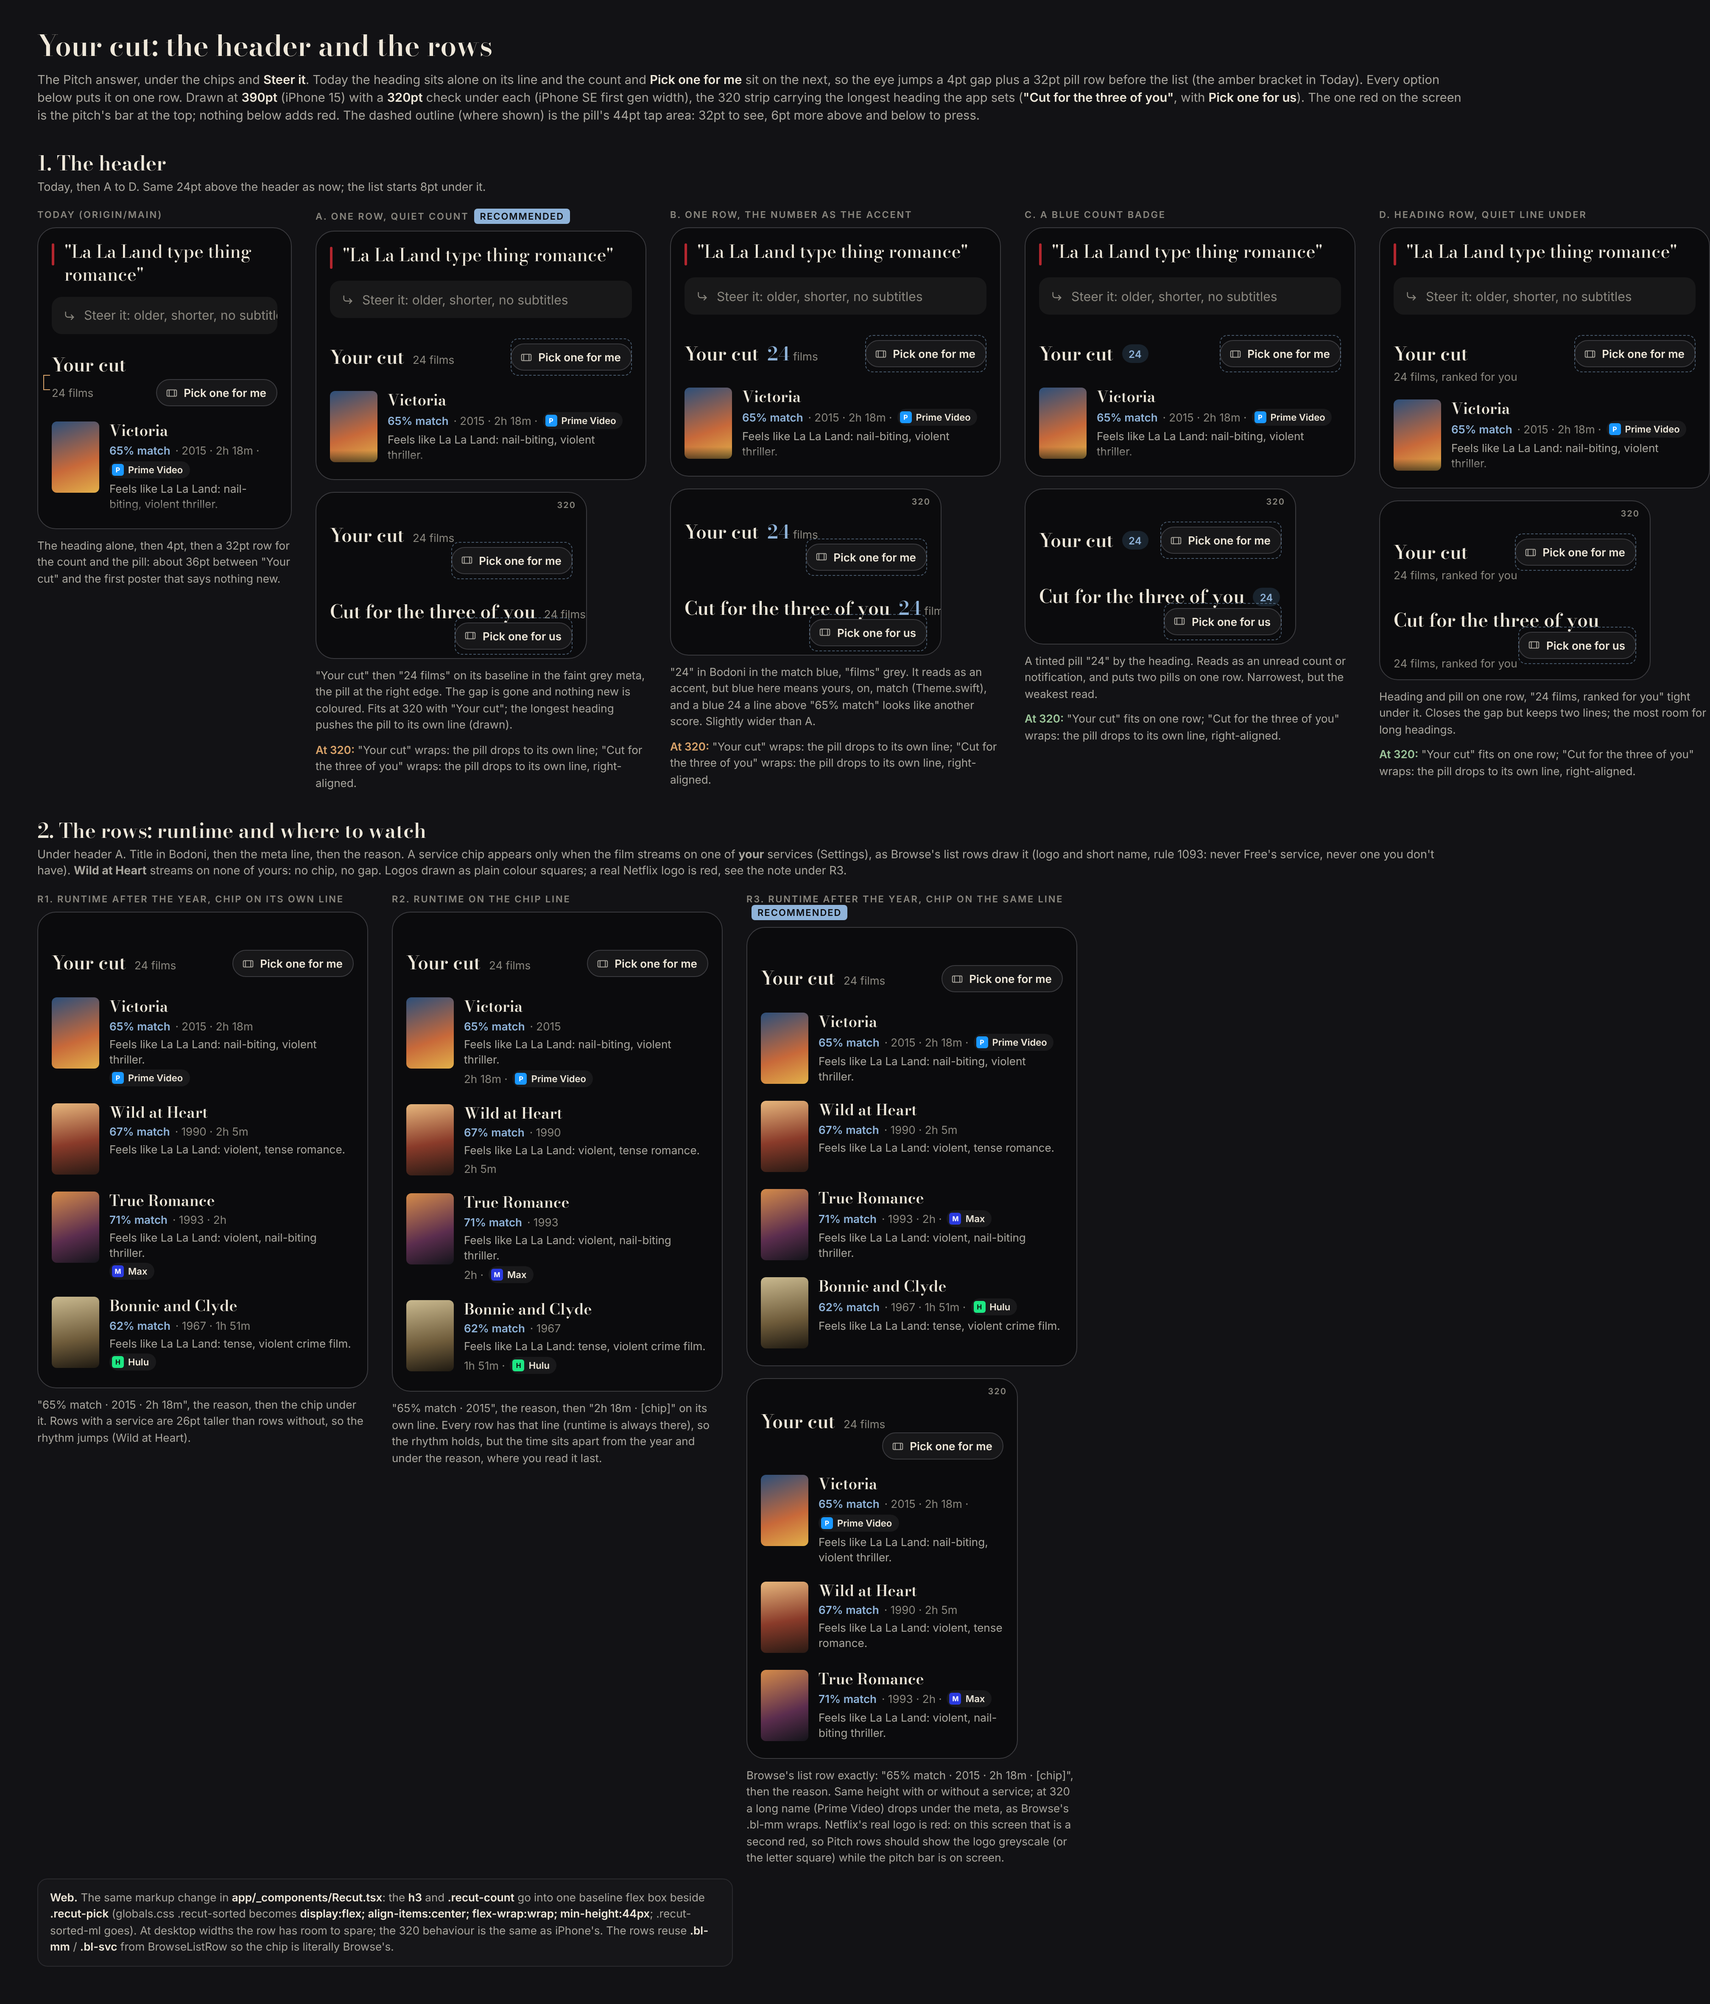
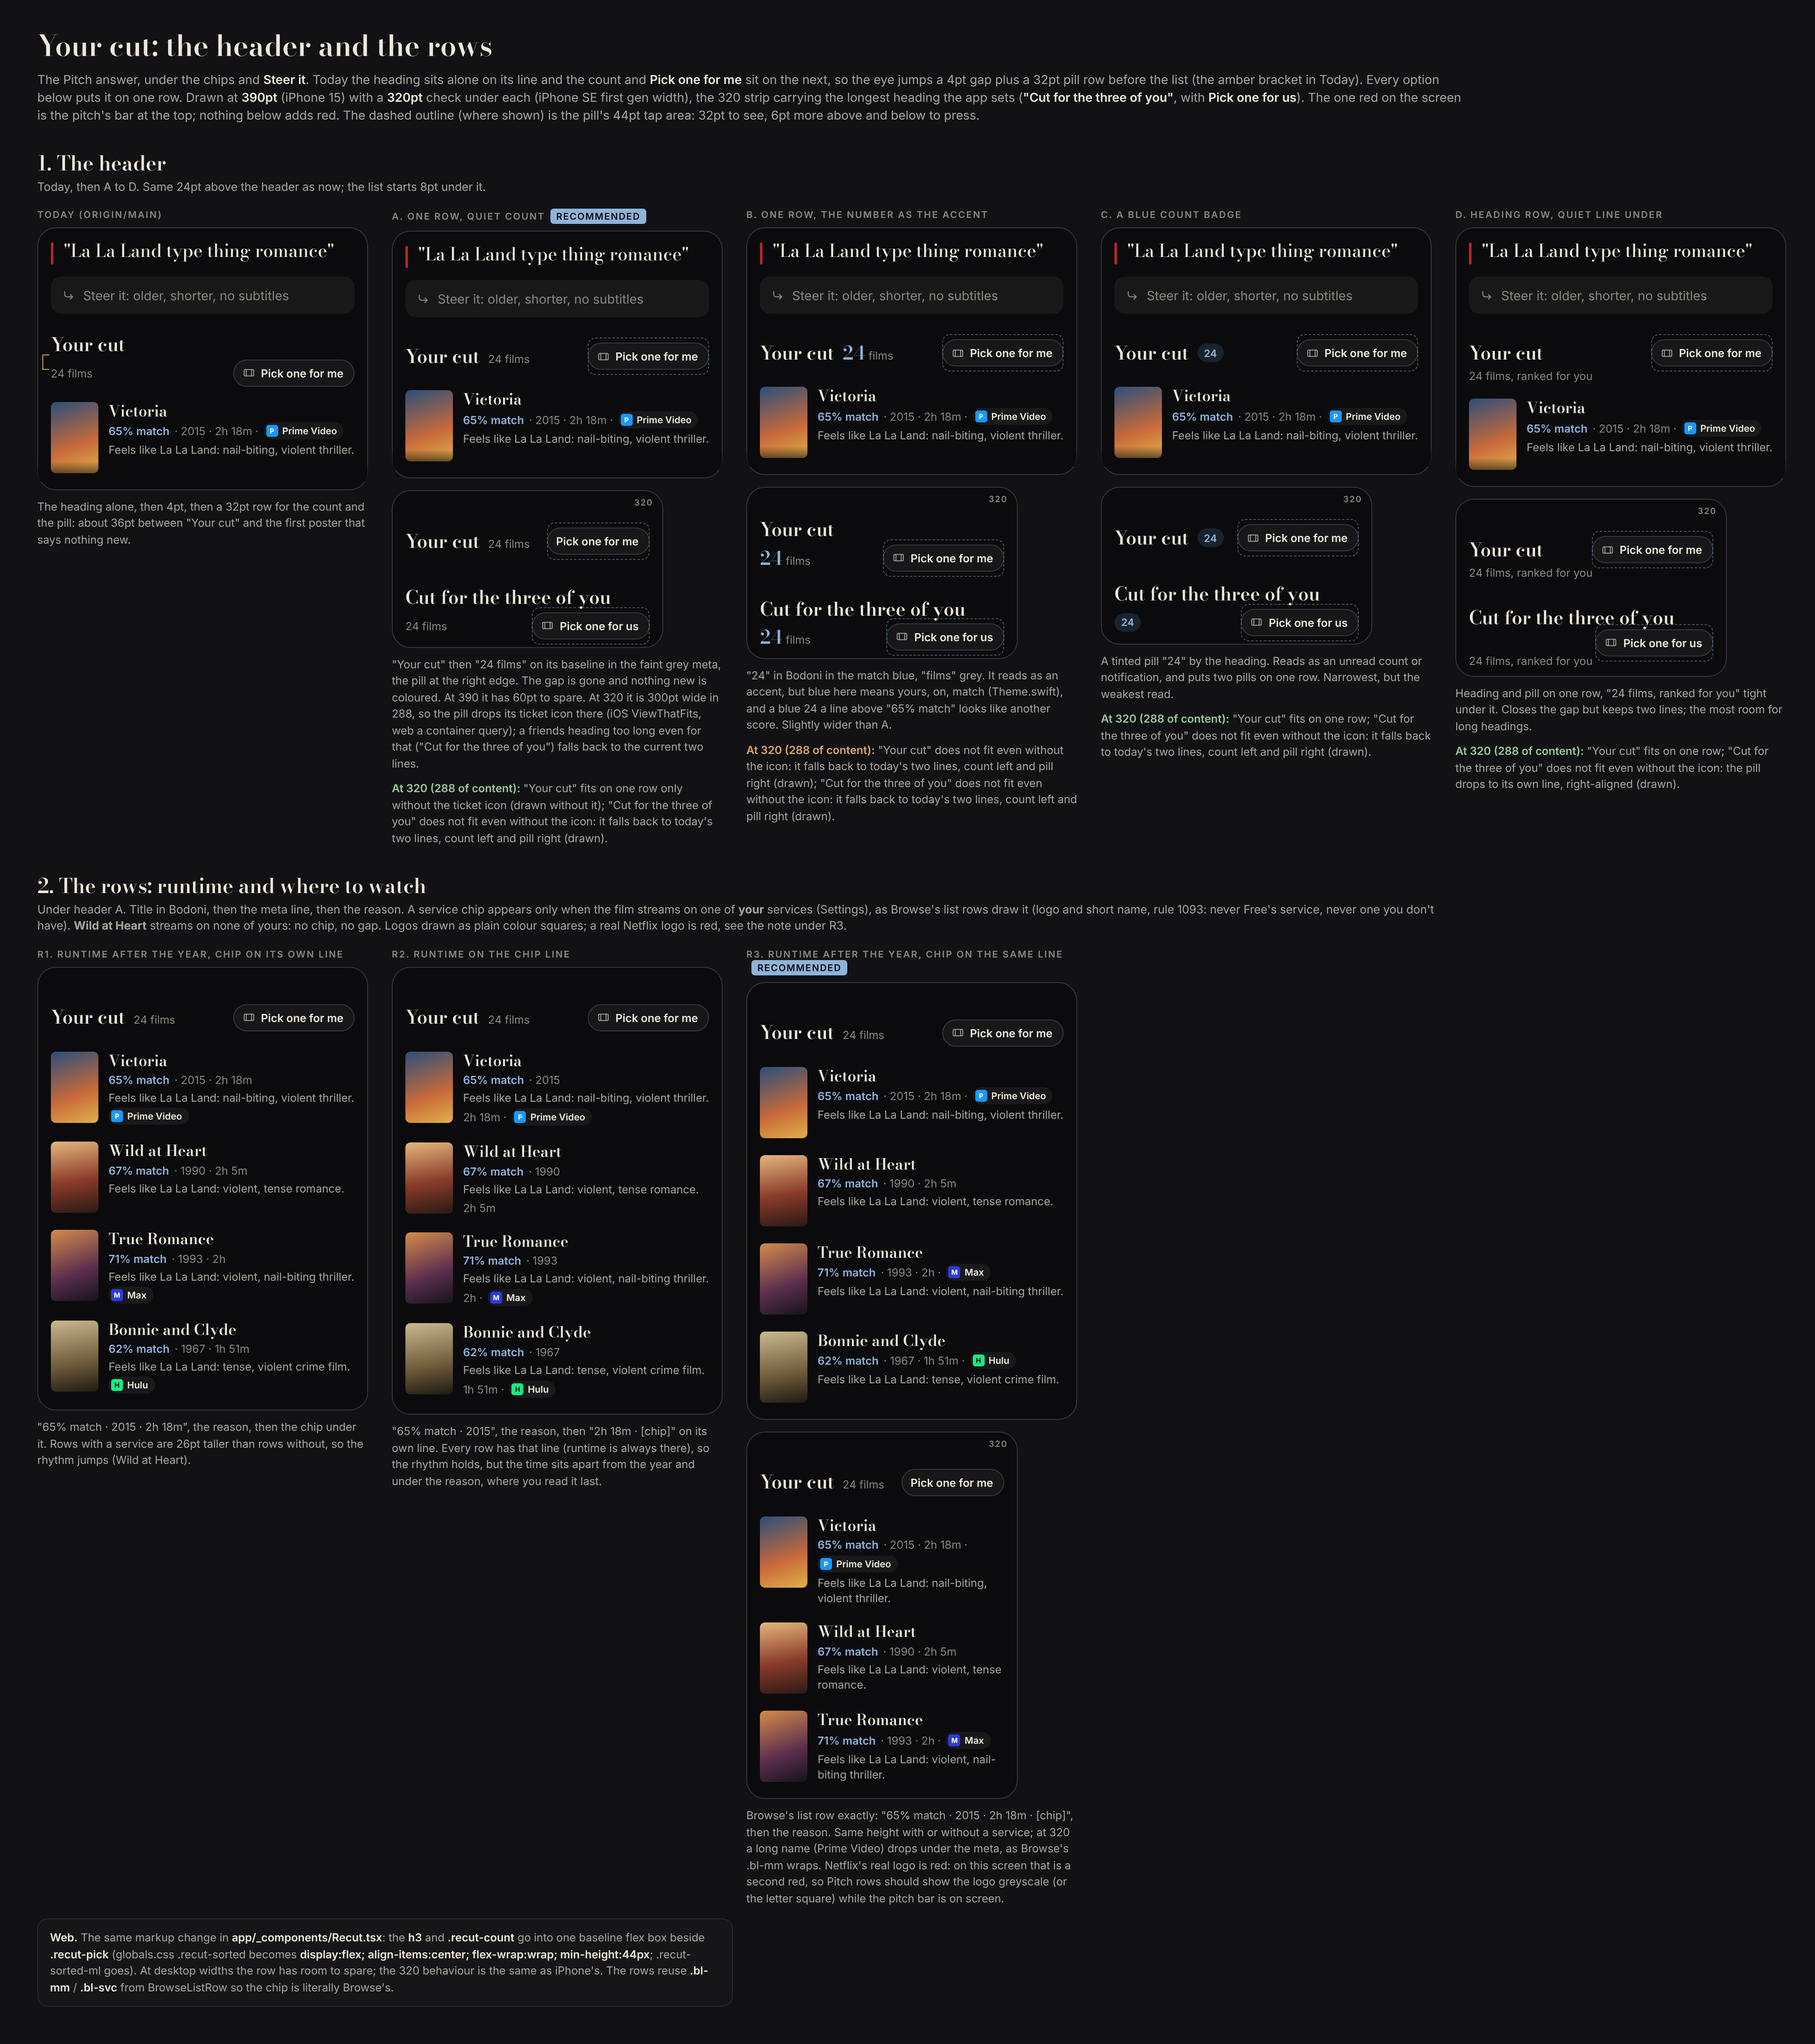
Mock: Pitch Your cut header on one row, rows with runtime and your service
Claude-Session: https://claude.ai/code/session_013WRDCFXH8nihP92apJAVW7

Changed region(s): [[0.0, 0.0, 1.0, 0.9331], [0.0312, 0.9331, 0.4062, 0.9953]]

diff --git a/mockups/journeys/your-cut-header-v1.html b/mockups/journeys/your-cut-header-v1.html
@@ -10,7 +10,7 @@
    BrowseListRow.tsx rowAction, rule 1093). Mock only, no app code. Films, matches and services illustrative. */
 :root{--bg:#0B0B0D;--p2:#18181B;--line:#2A2A2E;--line2:#3A3A3E;--ink:#EFE8DA;--muted:#A9A69E;--faint:#8A877F;--acc2:#8FB3D9;--red:#B3262E}
 *{box-sizing:border-box;margin:0;padding:0}
-body{width:1800px;background:#121215;color:var(--ink);font:400 15px/1.45 Inter,Arial,sans-serif;padding:36px 44px 44px}
+body{width:2140px;background:#121215;color:var(--ink);font:400 15px/1.45 Inter,Arial,sans-serif;padding:36px 44px 44px}
 h1{font:600 34px/1.1 'Bodoni Moda',Georgia,serif}
 .lede{color:var(--muted);margin-top:10px;font-size:14.5px;max-width:1680px}
 .lede b,.n b{color:var(--ink);font-weight:600}
@@ -23,7 +23,7 @@ h1{font:600 34px/1.1 'Bodoni Moda',Georgia,serif}
 .n{font:13px/1.5 Inter;color:var(--muted);margin-top:10px}
 .n.ok b{color:#9CC59A}.n.bad b{color:#D9A36A}
 /* a strip of the phone screen, 390 or 320 wide, 16 gutter */
-.ph{width:390px;background:var(--bg);border:1.5px solid var(--line2);border-radius:22px;overflow:hidden;padding:14px 16px 10px;position:relative}
+.ph{width:390px;background:var(--bg);outline:1.5px solid var(--line2);outline-offset:-1.5px;border-radius:22px;overflow:hidden;padding:14px 16px 10px;position:relative}
 .ph.w320{width:320px;margin-top:14px}
 .w320tag{position:absolute;right:12px;top:8px;font:600 10px Inter;letter-spacing:1px;color:var(--faint)}
 /* context above: the pitch's red bar (the one red), the chips' tail and the Steer field */
@@ -105,7 +105,7 @@ const ROW={
 };
 const HN={
  today:['Today (origin/main)','','The heading alone, then 4pt, then a 32pt row for the count and the pill: about 36pt between "Your cut" and the first poster that says nothing new.'],
- A:['A. One row, quiet count','rec','"Your cut" then "24 films" on its baseline in the faint grey meta, the pill at the right edge. The gap is gone and nothing new is coloured. Fits at 320 with "Your cut"; the longest heading pushes the pill to its own line (drawn).'],
+ A:['A. One row, quiet count','rec','"Your cut" then "24 films" on its baseline in the faint grey meta, the pill at the right edge. The gap is gone and nothing new is coloured. At 390 it has 60pt to spare. At 320 it is 300pt wide in 288, so the pill drops its ticket icon there (iOS ViewThatFits, web a container query); a friends heading too long even for that ("Cut for the three of you") falls back to the current two lines.'],
  B:['B. One row, the number as the accent','','"24" in Bodoni in the match blue, "films" grey. It reads as an accent, but blue here means yours, on, match (Theme.swift), and a blue 24 a line above "65% match" looks like another score. Slightly wider than A.'],
  C:['C. A blue count badge','','A tinted pill "24" by the heading. Reads as an unread count or notification, and puts two pills on one row. Narrowest, but the weakest read.'],
  D:['D. Heading row, quiet line under','','Heading and pill on one row, "24 films, ranked for you" tight under it. Closes the gap but keeps two lines; the most room for long headings.'],
@@ -113,8 +113,7 @@ const HN={
 const hd=document.getElementById('hdrs');
 for(const k of ['today','A','B','C','D']){
   const [lab,rec,note]=HN[k];
-  const c=document.createElement('div');c.className='col';c.style.width=k==='today'?'300px':'';
-  const w=k==='today'?'width:300px':'';
+  const c=document.createElement('div');c.className='col';const w='';
   c.innerHTML=`<div class="lab">${lab}${rec?'<span class="rec">RECOMMENDED</span>':''}</div>
    <div class="ph ${k==='today'?'':'show44'}" style="${w}" data-k="${k}">${QUOTE}${STEER}${H[k]('Your cut',false)}<div class="list">${ROW.R3(FILMS[0],0)}</div><div class="fade"></div></div>
    ${k==='today'?'':`<div class="ph w320 show44" data-k="${k}"><span class="w320tag">320</span>${H[k]('Your cut',false)}<div style="height:8px"></div>${H[k]('Cut for the three of you',true)}</div>`}
@@ -140,14 +139,20 @@ for(const k of ['R1','R2','R3']){
 document.fonts.ready.then(()=>{
   document.querySelectorAll('.ph.w320 .hd').forEach((h)=>{
     const p=h.querySelector('.pick'), l=h.querySelector('.l');
-    h.dataset.wrap = p.getBoundingClientRect().top - l.getBoundingClientRect().top > 12 ? '1':'0';
+    const wraps=()=>p.getBoundingClientRect().top - l.getBoundingClientRect().top > 12;
+    h.dataset.wrap = wraps() ? '1':'0';
+    // The fallback (ViewThatFits / a container query): the same row without the ticket icon.
+    if (wraps()) { p.querySelector('svg').remove(); h.dataset.noicon = wraps() ? '0' : '1'; if (h.dataset.noicon==='0') { p.prepend(document.createRange().createContextualFragment('<svg viewBox="0 0 24 24"><rect x="3" y="6" width="18" height="12" rx="2"/><path d="M7 6v12M17 6v12"/></svg>'));
+      // Still too wide: today's two lines (heading, then count left and pill right), only for these long headings.
+      const c=l.querySelector('.cnt,.cntB,.badge'); if (c) { const r=document.createElement('div'); r.style.cssText='display:flex;align-items:center;justify-content:space-between;width:100%;margin-top:4px'; r.append(c,p); h.append(r); } } }
   });
   for(const k of ['A','B','C','D']){
     const hs=[...document.querySelectorAll(`.ph.w320[data-k="${k}"] .hd`)];
     const el=document.querySelector(`[data-fit="${k}"]`);
-    const short=hs[0].dataset.wrap==='1', long=hs[1].dataset.wrap==='1';
+    const say=(h)=>h.dataset.wrap!=='1'?'fits on one row':h.dataset.noicon==='1'?'fits on one row only without the ticket icon (drawn without it)':(h.querySelector(':scope > div:last-child .pick')?'does not fit even without the icon: it falls back to today\'s two lines, count left and pill right (drawn)':'does not fit even without the icon: the pill drops to its own line, right-aligned (drawn)');
+    const short=hs[0].dataset.wrap==='1'&&hs[0].dataset.noicon!=='1';
     el.className='n fit '+(short?'bad':'ok');
-    el.innerHTML=`<b>At 320:</b> "Your cut" ${short?'wraps: the pill drops to its own line':'fits on one row'}; "Cut for the three of you" ${long?'wraps: the pill drops to its own line, right-aligned':'fits'}.`;
+    el.innerHTML=`<b>At 320 (288 of content):</b> "Your cut" ${say(hs[0])}; "Cut for the three of you" ${say(hs[1])}.`;
   }
 });
 </script>
